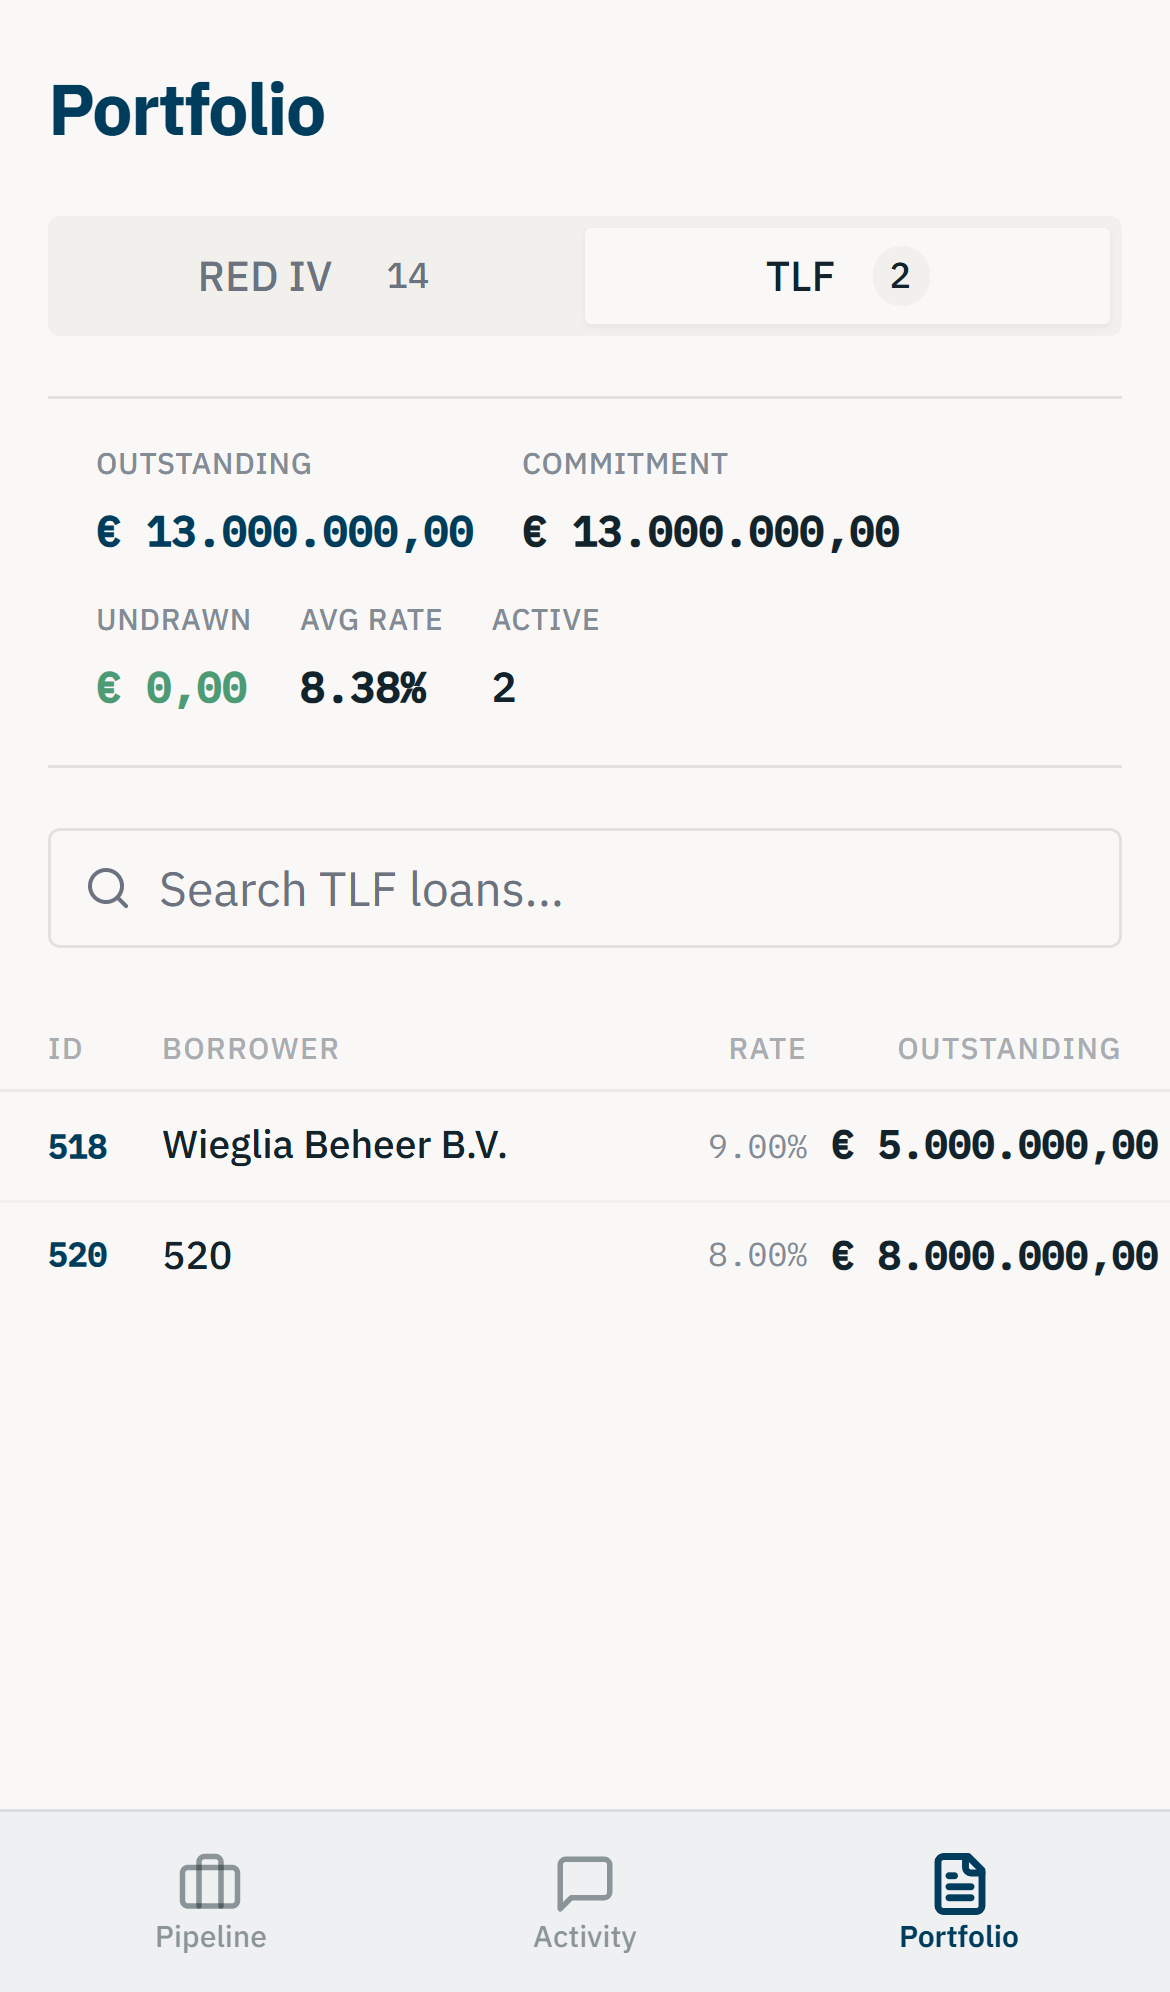
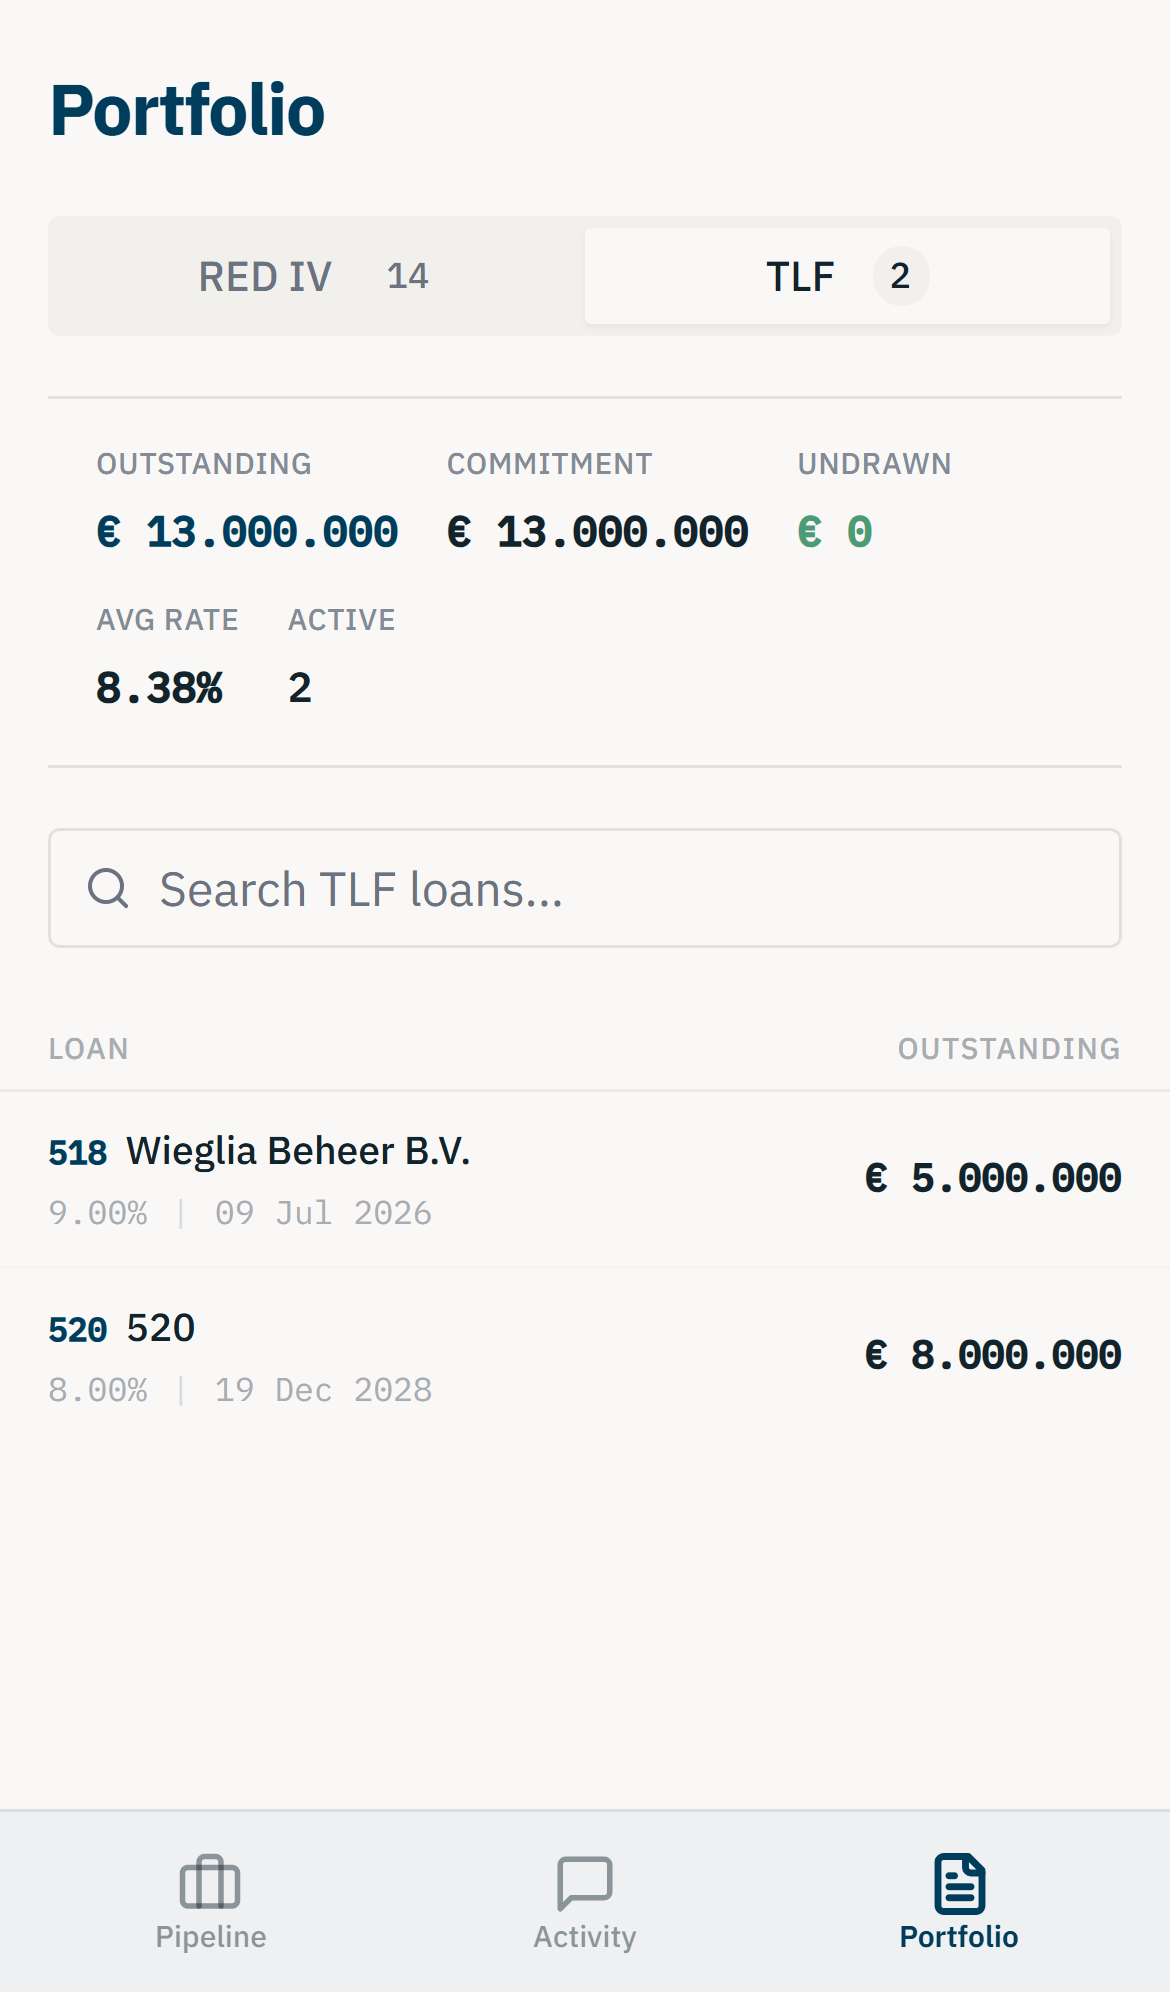
more ui changes

diff --git a/src/pages/Loans.tsx b/src/pages/Loans.tsx
@@ -12,7 +12,7 @@ import { CreateLoanDialog } from '@/components/loans/CreateLoanDialog';
 import { Select, SelectContent, SelectItem, SelectTrigger, SelectValue } from '@/components/ui/select';
 import { Popover, PopoverContent, PopoverTrigger } from '@/components/ui/popover';
 import { Textarea } from '@/components/ui/textarea';
-import { formatDate, formatCurrency, formatPercent } from '@/lib/format';
+import { formatDate, formatCurrency, formatCurrencyShort, formatPercent } from '@/lib/format';
 import { Skeleton } from '@/components/ui/skeleton';
 import { Tabs, TabsList, TabsTrigger } from '@/components/ui/tabs';
 import { Search, ArrowUpDown, ArrowUp, ArrowDown, Plus, MessageSquare } from 'lucide-react';
@@ -266,7 +266,7 @@ export default function Loans({ mobilePortfolio }: LoansProps = {}) {
           { label: 'Prospect', value: String(prospectCount + noStageCount), mono: false },
           { label: 'Soft', value: String(softCount), mono: false, accent: 'amber' as const },
           { label: 'Hard', value: String(hardCount), mono: false, accent: 'sage' as const },
-          { label: 'Commitment', value: formatCurrency(totalCommitmentPipeline) },
+          { label: 'Commitment', value: formatCurrencyShort(totalCommitmentPipeline) },
         ] : [
           { label: 'Deals', value: String(vehicleLoans.length), mono: false },
           { label: 'Prospect', value: String(prospectCount + noStageCount), mono: false },
@@ -277,7 +277,13 @@ export default function Loans({ mobilePortfolio }: LoansProps = {}) {
           { label: 'Avg LTV', value: avgLtv > 0 ? formatPercent(avgLtv, 1) : '—' },
         ]} />;
       })() : (
-        <FinancialStrip items={[
+        <FinancialStrip items={isMobile ? [
+          { label: 'Outstanding', value: formatCurrencyShort(totalPrincipal), accent: 'primary' },
+          { label: 'Commitment', value: formatCurrencyShort(totalCommitment) },
+          { label: 'Undrawn', value: formatCurrencyShort(totalUndrawn), accent: 'sage' },
+          { label: 'Avg Rate', value: formatPercent(avgRate, 2) },
+          { label: 'Active', value: String(activeLoans.length), mono: false },
+        ] : [
           { label: 'Outstanding', value: formatCurrency(totalPrincipal), accent: 'primary' },
           { label: 'Commitment', value: formatCurrency(totalCommitment) },
           { label: 'Undrawn', value: formatCurrency(totalUndrawn), accent: 'sage' },
@@ -297,21 +303,49 @@ export default function Loans({ mobilePortfolio }: LoansProps = {}) {
           {searchQuery ? 'No loans match your search.' : `No loans in ${activeVehicle} yet.`}
         </div>
       ) : isMobile && isPipelineVehicle(activeVehicle) ? (
-        /* Mobile Pipeline: rich cards */
-        <div className="space-y-3.5">
-          {filteredLoans.map(loan => (
-            <PipelineCard key={loan.id} loan={loan} />
-          ))}
+        /* Mobile Pipeline: dense table view */
+        <div className="-mx-4">
+          <div className="flex items-center px-4 py-1.5 text-[10px] uppercase tracking-wider text-foreground-muted font-medium border-b border-border/60">
+            <span className="flex-1 min-w-0">Deal</span>
+            <span className="text-right shrink-0 w-[56px]">Stage</span>
+            <span className="text-right shrink-0 w-[100px]">Commitment</span>
+          </div>
+          {filteredLoans.map((loan, i) => {
+            const stage = (loan as any).pipeline_stage;
+            const stageLabel = stage === 'hard' ? 'Hard' : stage === 'soft' ? 'Soft' : 'Prospect';
+            const stageColor = stage === 'hard' ? 'text-accent-sage' : stage === 'soft' ? 'text-accent-amber' : 'text-foreground-muted';
+            return (
+              <div
+                key={loan.id}
+                className={`flex items-center px-4 py-2.5 active:bg-muted/40 transition-colors cursor-pointer ${
+                  i < filteredLoans.length - 1 ? 'border-b border-border/20' : ''
+                }`}
+                onClick={() => navigate(`/loans/${loan.id}`)}
+              >
+                <div className="flex-1 min-w-0">
+                  <div className="flex items-center gap-1.5">
+                    <span className="font-mono text-[11px] font-bold text-primary shrink-0">{(loan as any).loan_id}</span>
+                    <span className="text-[13px] font-medium truncate">{loan.borrower_name}</span>
+                  </div>
+                  <div className="flex items-center gap-2 mt-0.5 text-[11px] text-foreground-muted">
+                    {(loan as any).city && <span>{(loan as any).city}</span>}
+                    {(loan as any).city && loan.interest_rate ? <span className="opacity-40">|</span> : null}
+                    {loan.interest_rate ? <span className="font-mono">{formatPercent(loan.interest_rate, 2)}</span> : null}
+                  </div>
+                </div>
+                <span className={`text-right shrink-0 w-[56px] text-[11px] font-medium ${stageColor}`}>{stageLabel}</span>
+                <span className="text-right shrink-0 pl-2 font-mono text-[13px] font-semibold w-[100px]">{formatCurrencyShort(loan.total_commitment || 0)}</span>
+              </div>
+            );
+          })}
         </div>
       ) : isMobile ? (
         /* Mobile Portfolio: dense table view */
         <div className="-mx-4">
-          {/* Table header */}
           <div className="flex items-center px-4 py-1.5 text-[10px] uppercase tracking-wider text-foreground-muted font-medium border-b border-border/60">
             <span className="flex-1 min-w-0">Loan</span>
-            <span className="text-right shrink-0 w-[120px]">Outstanding</span>
+            <span className="text-right shrink-0 w-[110px]">Outstanding</span>
           </div>
-          {/* Table rows */}
           {filteredLoans.map((loan, i) => (
             <div
               key={loan.id}
@@ -331,7 +365,7 @@ export default function Loans({ mobilePortfolio }: LoansProps = {}) {
                   <span>{formatDate(loan.maturity_date)}</span>
                 </div>
               </div>
-              <span className="text-right shrink-0 pl-3 font-mono text-[13px] font-semibold w-[120px]">{formatCurrency(loan.outstanding)}</span>
+              <span className="text-right shrink-0 pl-3 font-mono text-[13px] font-semibold w-[110px]">{formatCurrencyShort(loan.outstanding)}</span>
             </div>
           ))}
         </div>

diff --git a/src/pages/LoanDetail.tsx b/src/pages/LoanDetail.tsx
@@ -21,7 +21,7 @@ import { AccrualsTab } from '@/components/loans/AccrualsTab';
 import { NoticePreviewTab } from '@/components/loans/NoticePreviewTab';
 import { ActivityTab } from '@/components/loans/ActivityTab';
 import { ErrorBoundary } from '@/components/ErrorBoundary';
-import { formatCurrency, formatDate, formatDateTime, formatPercent, formatEventType } from '@/lib/format';
+import { formatCurrency, formatCurrencyShort, formatDate, formatDateTime, formatPercent, formatEventType } from '@/lib/format';
 import { FinancialStrip } from '@/components/loans/FinancialStrip';
 import { Skeleton } from '@/components/ui/skeleton';
 import { EventType } from '@/types/loan';
@@ -272,9 +272,9 @@ export default function LoanDetail() {
 
       {/* Key Loan Metrics Strip */}
       <FinancialStrip items={isMobile ? [
-        { label: 'Outstanding', value: formatCurrency(accrualsSummary.currentPrincipal), accent: 'primary' },
+        { label: 'Outstanding', value: formatCurrencyShort(accrualsSummary.currentPrincipal), accent: 'primary' },
         { label: 'Rate', value: formatPercent(accrualsSummary.currentRate, 2) },
-        { label: 'Commitment', value: formatCurrency(accrualsSummary.totalCommitment) },
+        { label: 'Commitment', value: formatCurrencyShort(accrualsSummary.totalCommitment) },
       ] : [
         { label: 'Outstanding', value: formatCurrency(accrualsSummary.currentPrincipal), accent: 'primary' },
         { label: 'Commitment', value: formatCurrency(accrualsSummary.totalCommitment) },
@@ -288,10 +288,14 @@ export default function LoanDetail() {
 
       {/* Depot Balance Strip — only for loans with a depot reserve event */}
       {depotReserve > 0 && (
-        <FinancialStrip items={[
-          { label: isMobile ? 'Reserve' : 'Depot Reserve', value: formatCurrency(depotReserve) },
-          { label: isMobile ? 'Used' : 'Depot Used', value: formatCurrency(depotUsed), accent: 'amber' },
-          { label: isMobile ? 'Remaining' : 'Depot Remaining', value: formatCurrency(depotRemaining), accent: depotRemaining > 0 ? 'sage' : 'destructive' },
+        <FinancialStrip items={isMobile ? [
+          { label: 'Reserve', value: formatCurrencyShort(depotReserve) },
+          { label: 'Used', value: formatCurrencyShort(depotUsed), accent: 'amber' },
+          { label: 'Remaining', value: formatCurrencyShort(depotRemaining), accent: depotRemaining > 0 ? 'sage' : 'destructive' },
+        ] : [
+          { label: 'Depot Reserve', value: formatCurrency(depotReserve) },
+          { label: 'Depot Used', value: formatCurrency(depotUsed), accent: 'amber' },
+          { label: 'Depot Remaining', value: formatCurrency(depotRemaining), accent: depotRemaining > 0 ? 'sage' : 'destructive' },
         ]} />
       )}
 

diff --git a/src/lib/format.ts b/src/lib/format.ts
@@ -13,6 +13,20 @@ export function formatCurrency(amount: number | null | undefined): string {
 }
 
 /**
+ * Format currency without decimal places (for mobile / compact views)
+ */
+export function formatCurrencyShort(amount: number | null | undefined): string {
+  if (amount === null || amount === undefined) return '—';
+  return new Intl.NumberFormat('nl-NL', {
+    style: 'currency',
+    currency: 'EUR',
+    minimumFractionDigits: 0,
+    maximumFractionDigits: 0,
+    currencyDisplay: 'symbol',
+  }).format(amount);
+}
+
+/**
  * Format a number as a percentage
  */
 export function formatPercent(rate: number | null | undefined, decimals = 2): string {
